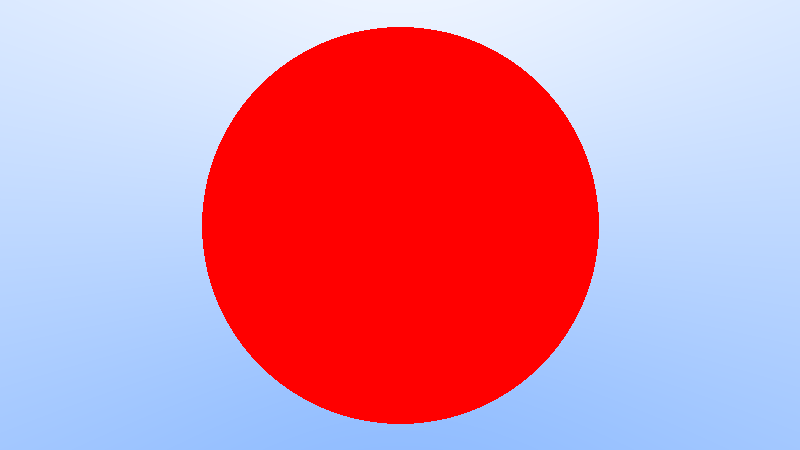
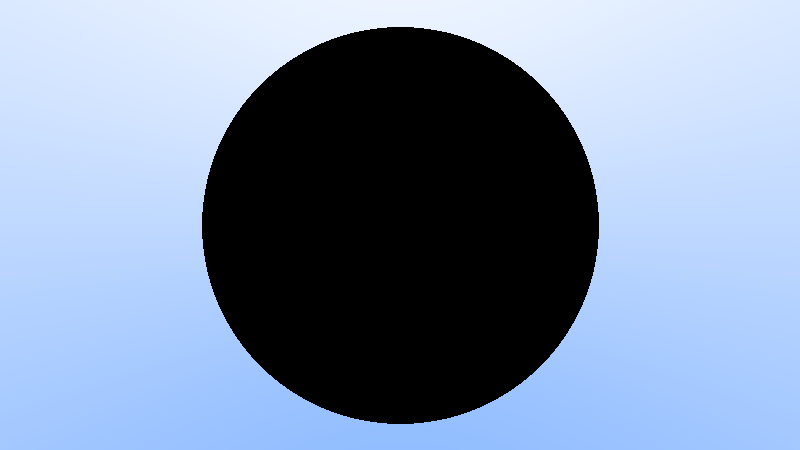
temporal commit

diff --git a/raytracer/src/shape.rs b/raytracer/src/shape.rs
@@ -5,7 +5,7 @@ use crate::intersect::*;
 /////////////////////////
 /// 
 pub trait Shape {
-   fn intersect( &self, r : &Ray ) -> bool;
+   fn intersect( &self, r:&Ray, i:&mut Iact ) -> bool;
 }
 
 pub struct Sphere {
@@ -14,18 +14,19 @@ pub struct Sphere {
 }
 
 impl Shape for Sphere {
-    fn intersect( &self, r: &Ray ) -> bool {
+    fn intersect( &self, r:&Ray, i:&mut Iact ) -> bool {
         let oc = r.o - self.center;
         let a = dot(r.d, r.d);
         let b = 2.0 * dot(oc, r.d);
         let c = dot(oc, oc) - self.radius*self.radius;
-        let discriminat = b*b - 4f32*a*c;
+        let discriminant = b*b - 4f32*a*c;
         
-        if discriminat < 0.0 {
-            return false;
-        } 
-        else {
-            return true; 
-        }
+        if discriminant < 0.0 { return false; } 
+      
+        i.t =  -b - sqrt(discriminant)/(2.0*a);
+        i.norm = normalize(i.pos - self.center);
+        i.norm *= -dot(i.norm, r.d).sin();
+
+        return true;
     }
 }

diff --git a/raytracer/src/main.rs b/raytracer/src/main.rs
@@ -11,7 +11,12 @@ use rxmath::vector::*;
 pub fn ray_color(r:Ray) -> Fvec3 {
     let o = vec3(0f32, 0f32, -1f32);
     let s : Sphere = Sphere{ center:o, radius:0.5 };
-    if s.intersect(&r){ return vec3(1.0, 0.0, 0.0); }
+    let mut i : Iact = Iact{ t:1_f32, pos:o, norm:o };
+    
+    if s.intersect(&r, &mut i) { 
+        return vec3(i.norm.x+1f32, i.norm.y+1f32, i.norm.z+1f32)*0.5; 
+    }
+    
     // if t>0f32 {
     //     let N = r.at(t).normalize() - vec3(0f32, 0f32, -1f32);
     //     return vec3(N.x+1f32, N.y+1f32, N.z+1f32)*0.5;

diff --git a/rxmath/src/vector.rs b/rxmath/src/vector.rs
@@ -195,6 +195,14 @@ impl_fmt!(Ivec4{ x y z w }, "<{} {} {} {}>");
 impl_fmt!(Uvec4{ x y z w }, "<{} {} {} {}>");
 
 //@@todo pub function to calculate ~~~~
+
+
 pub fn dot( v0:Fvec3, v1:Fvec3 ) -> f32 {
     v0.dot(v1)
 }
+pub fn normalize( v:Fvec3 ) -> Fvec3 {
+    v.normalize()
+}
+pub fn sqrt(f:f32) -> f32 {
+    f.sqrt()
+} 

diff --git a/raytracer/src/intersect.rs b/raytracer/src/intersect.rs
@@ -13,10 +13,10 @@ impl Ray {
     } 
 }
 
-struct Intersect {
+pub struct Iact {
+    pub t : f32,
     pub pos : Fvec3,
     pub norm : Fvec3,
-
 }
 
 #[allow(dead_code)]
